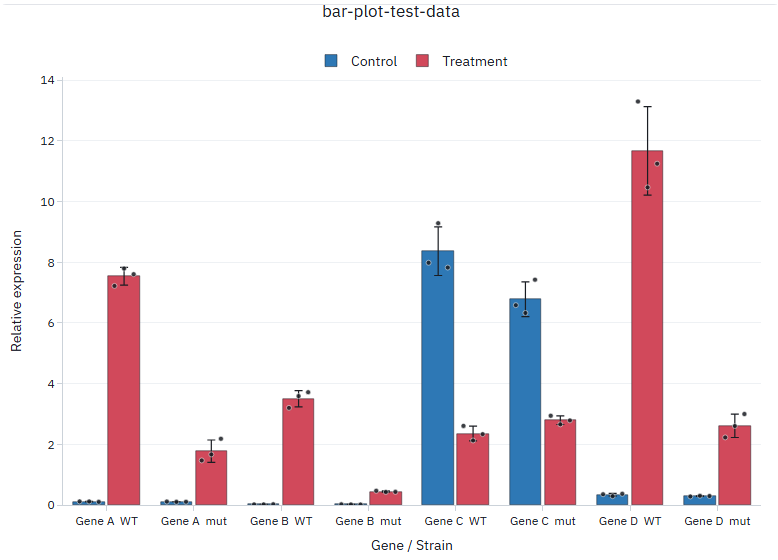
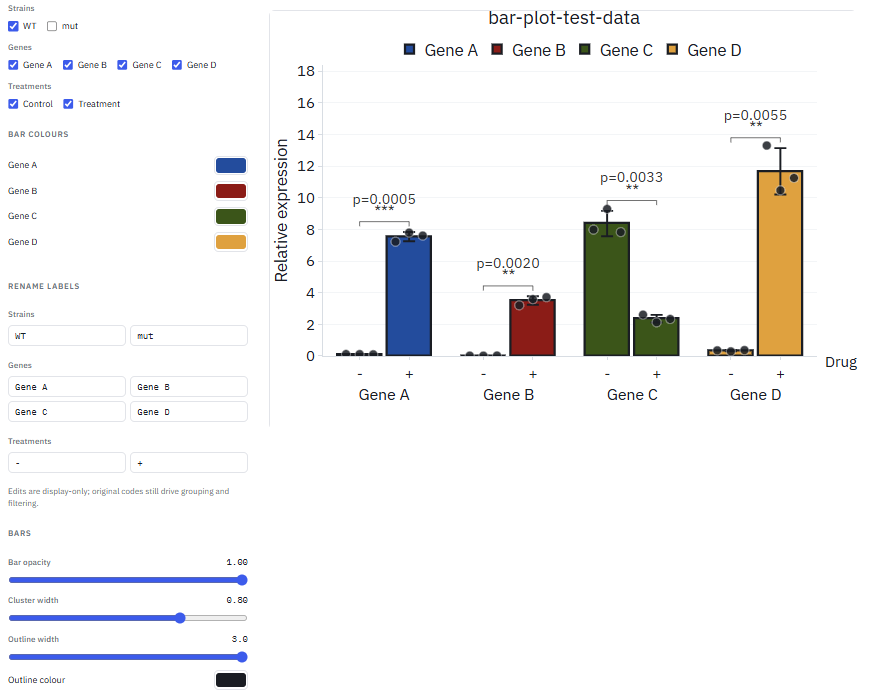
Update the polysome-profile and bar-plot screenshots

diff --git a/README.md b/README.md
@@ -56,7 +56,7 @@ Upload differential-expression or proteomics results with one row per gene.
 
 ## Bar Plot
 
-![A grouped bar plot of four genes' relative expression in two strains, with replicate points](screenshots/bar-plot.png)
+![A bar plot of four genes' relative expression without and with a drug, with replicate points and significance brackets](screenshots/bar-plot.png)
 
 Bars of the mean with error bars and the individual replicates overlaid, for qPCR, dual-luciferase or any
 other replicate measurements.
